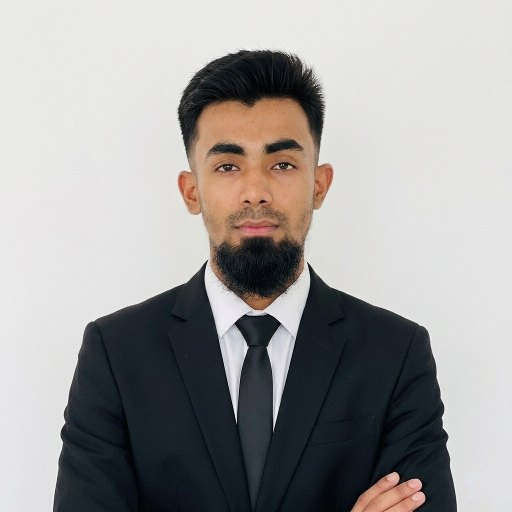
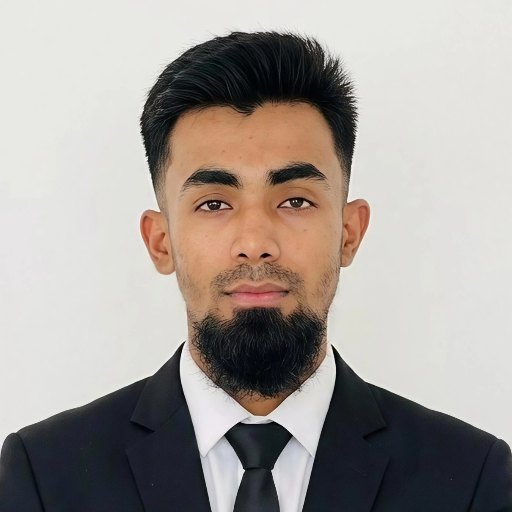
some add a single join button

diff --git a/NHS_Frontend/src/pages/home/JoinFinder.jsx b/NHS_Frontend/src/pages/home/JoinFinder.jsx
@@ -1,0 +1,102 @@
+import { useRef, useState } from 'react';
+import { useNavigate } from 'react-router-dom';
+import { findByRoll } from '../../api/public.js';
+import { Icon } from '../../components/Icon.jsx';
+import { studentId } from '../../lib/format.js';
+import { FOUNDED, GROUPS, ROLL_CHECK_FROM, THIS_YEAR } from '../../lib/school.js';
+
+const YEARS = Array.from({ length: THIS_YEAR - FOUNDED + 1 }, (_, i) => THIS_YEAR - i);
+
+/**
+ * One "Join" for every batch. Pick the batch first; then
+ *   up to lastJoin (not in the school's sheets): the join form, checked by an admin;
+ *   ROLL_CHECK_FROM on (sheets have rolls only): group + SSC roll finds the record;
+ *   in between (sheets have names): the batch page, filtered to that group, to find yourself.
+ */
+export default function JoinFinder({ firstRecord }) {
+  const navigate = useNavigate();
+  const ref = useRef(null);
+  const lastJoin = (firstRecord ?? 2006) - 1;
+  const [f, setF] = useState({ batch: '', group: '', roll: '' });
+  const [busy, setBusy] = useState(false);
+  const [error, setError] = useState(null);
+
+  const year = YEARS.includes(+f.batch) ? +f.batch : null;
+  const kind = !year ? null : year <= lastJoin ? 'form' : year >= ROLL_CHECK_FROM ? 'roll' : 'list';
+  const set = k => e => {
+    const v = k === 'roll' || k === 'batch' ? e.target.value.replace(/\D/g, '') : e.target.value;
+    setError(null);
+    setF(s => (k === 'batch' ? { batch: v, group: '', roll: '' } : { ...s, [k]: v }));
+  };
+
+  // a department button: straight to the batch page for names, else on to the SSC roll
+  const pickGroup = g => (kind === 'list' ? navigate(`/directory?batch=${year}&group=${encodeURIComponent(g)}`) : setF(s => ({ ...s, group: g })));
+
+  const submit = async e => {
+    e.preventDefault();
+    if (kind === 'form') return navigate('/join', { state: { batch: year } });
+    setBusy(true); setError(null);
+    try {
+      const { id } = await findByRoll(year, f.group, f.roll);
+      navigate(`/alumni/${studentId(id)}/update`, { state: { roll: f.roll } });
+    } catch (err) {
+      setError(err.message);
+      setBusy(false);
+    }
+  };
+
+  return (
+    <section className="section">
+      <div className="wrap">
+        <div className="card join-band">
+          <span className="pin-icon"><Icon name="users" /></span>
+          <div>
+            <h2>Join the network</h2>
+            <p className="text-2">SSC {FOUNDED}–{THIS_YEAR}: find your profile, or add yourself.</p>
+          </div>
+          <button type="button" className="btn btn-primary" onClick={() => ref.current.showModal()}>Join</button>
+        </div>
+      </div>
+      <dialog ref={ref} className="pin-dialog roll-dialog" aria-labelledby="join-title">
+        <form onSubmit={submit}>
+          <h2 id="join-title">Join the network</h2>
+          <label className="field">
+            <span className="field-label">Batch (SSC year)</span>
+            <input className="input num" list="join-years" required inputMode="numeric" maxLength={4} autoComplete="off"
+              placeholder="Type or choose, e.g. 2014" value={f.batch} onChange={set('batch')} />
+            <datalist id="join-years">{YEARS.map(y => <option key={y} value={y} />)}</datalist>
+          </label>
+          {f.batch.length === 4 && !year && <p className="err">Choose a year from {FOUNDED} to {THIS_YEAR}.</p>}
+
+          {(kind === 'roll' || kind === 'list') && (
+            <fieldset className="field join-groups">
+              <legend className="field-label">Department</legend>
+              <div>
+                {GROUPS.map(g => (
+                  <button key={g.name} type="button" className="btn btn-secondary" aria-pressed={f.group === g.name} onClick={() => pickGroup(g.name)}>
+                    <i className={`dot ${g.cls}`} aria-hidden="true" />{g.name}
+                  </button>
+                ))}
+              </div>
+            </fieldset>
+          )}
+
+          {kind === 'roll' && f.group && (
+            <label className="field">
+              <span className="field-label">SSC roll</span>
+              <input className="input num" required inputMode="numeric" pattern="[0-9]{4,10}" maxLength={10} autoComplete="off"
+                value={f.roll} onChange={set('roll')} />
+            </label>
+          )}
+
+          {error && <p className="err" role="alert">{error}</p>}
+          {kind === 'form' && <p className="text-2">Batches before {lastJoin + 1} aren’t in the school’s records: fill in the form and an admin checks it.</p>}
+          {(kind === 'form' || (kind === 'roll' && f.group)) && (
+            <button className="btn btn-primary btn-block" type="submit" disabled={busy}>{busy ? 'Checking…' : 'Continue'}</button>
+          )}
+          <button type="button" className="btn btn-ghost btn-sm" onClick={() => ref.current.close()}>Cancel</button>
+        </form>
+      </dialog>
+    </section>
+  );
+}

diff --git a/NHS_Frontend/src/index.css b/NHS_Frontend/src/index.css
@@ -600,23 +600,22 @@ button { font: inherit; color: inherit; }
 }
 /* PIN box: bottom sheet on phones, centred card on desktop */
 .pin-dialog { width: 100%; max-width: 100%; margin: auto 0 0; padding: 0; border: 0; border-radius: var(--r-lg) var(--r-lg) 0 0; background: var(--surface); color: var(--text); box-shadow: var(--shadow-lg); }
-/* two halves side by side at every width; on phones: no icon, smaller text, full-width buttons */
-.roll-band { display: grid; grid-template-columns: 1fr 1fr; border-top: 4px solid var(--accent); overflow: hidden;
-  margin-inline: calc(-1 * var(--gutter)); border-radius: 0; border-inline: 0; } /* phones: edge to edge */
-.roll-part { display: grid; grid-template-rows: 1fr auto; gap: var(--s-3); padding: var(--s-4); }
-.roll-part + .roll-part { border-left: 1px solid var(--border); }
-.roll-band .pin-icon { display: none; justify-self: start; }
-.roll-band h2 { font: 600 var(--t-base)/1.3 var(--f-sans); }
-.roll-band p { font-size: var(--t-sm); }
-.roll-band .btn { width: 100%; }
+/* home page Join: one band, the button on the right */
+.join-band { display: grid; grid-template-columns: minmax(0, 1fr) auto; align-items: center; gap: var(--s-3); padding: var(--s-4); border-top: 4px solid var(--accent); }
+.join-band .pin-icon { display: none; }
+.join-band h2 { font: 600 var(--t-base)/1.3 var(--f-sans); }
+.join-band p { font-size: var(--t-sm); }
 @media (min-width: 720px) {
-  .roll-band { margin-inline: 0; border-radius: var(--r-md); border-inline: 1px solid var(--border); }
-  .roll-part { grid-template-rows: auto 1fr auto; gap: var(--s-4); padding: var(--s-6) var(--s-8); }
-  .roll-band .pin-icon { display: grid; }
-  .roll-band h2 { font-size: var(--t-xl); }
-  .roll-band p { font-size: inherit; }
-  .roll-band .btn { width: auto; justify-self: start; }
+  .join-band { grid-template-columns: auto minmax(0, 1fr) auto; gap: var(--s-4); padding: var(--s-6) var(--s-8); }
+  .join-band .pin-icon { display: grid; }
+  .join-band h2 { font-size: var(--t-xl); }
+  .join-band p { font-size: inherit; }
 }
+/* Join box: the three departments as buttons */
+.join-groups { border: 0; padding: 0; margin: 0; }
+.join-groups > div { display: grid; gap: var(--s-2); }
+.join-groups .btn { justify-content: flex-start; gap: var(--s-2); }
+.join-groups .btn[aria-pressed="true"] { border-color: var(--brand); background: var(--brand-soft); box-shadow: 0 0 0 1px var(--brand); }
 .roll-dialog .field { text-align: left; }
 .pin-dialog::backdrop { background: rgb(0 0 0 / .45); }
 .pin-dialog form { display: grid; gap: var(--s-3); padding: var(--s-6) var(--s-5) calc(var(--s-5) + var(--safe-b)); text-align: center; }
@@ -1020,8 +1019,6 @@ button { font: inherit; color: inherit; }
 @media (min-width: 960px) { .hero .wrap { padding-block: 48px 40px; gap: var(--s-4); } }
 
 /* roll band, footer, sheets */
-.roll-part { gap: var(--s-2); padding: var(--s-3); }
-@media (min-width: 720px) { .roll-part { gap: var(--s-3); padding: var(--s-4) var(--s-6); } .roll-band h2 { font-size: var(--t-lg); } }
 .pin-icon { width: 40px; height: 40px; }
 .pin-icon .ic { width: 20px; height: 20px; }
 .footer { margin-top: var(--s-6); }

diff --git a/NHS_Frontend/src/pages/profile-form/UpdateProfile.jsx b/NHS_Frontend/src/pages/profile-form/UpdateProfile.jsx
@@ -31,7 +31,7 @@ export default function UpdateProfile() {
   const id = currentId(+useParams().id) || null;
   const { data: d, loading, error } = useAsync(() => (id ? getAlumnusRaw(id) : Promise.resolve(null)), [id]);
   // The SSC roll, once it matched. It rides in the page's history state, so switching to the roll's own profile keeps it.
-  const { roll, moved } = useLocation().state || {};
+  const { roll, moved, batch } = useLocation().state || {}; // batch: picked in the home page's Join box
   const [unlocked, setUnlocked] = useState(null); // { id, pin, ...private fields } after the email PIN
   useTitle(id ? 'Update my profile' : 'Join the network');
   if (id && loading) return <div className="wrap profile-skel" aria-busy="true"><div className="skeleton skel-block" /></div>;
@@ -47,5 +47,6 @@ export default function UpdateProfile() {
   if (person?.joined && !u) return <EditGate id={id} person={person} onUnlock={setUnlocked} />;
   const start = initial(d, u);
   start.form.roll = roll ? +roll : null;
+  if (!id && batch) start.form.batch = String(batch);
   return <ProfileForm key={id} id={id} person={person} start={start} moved={moved} pin={u?.pin} />;
 }

diff --git a/NHS_Frontend/src/pages/home/Home.jsx b/NHS_Frontend/src/pages/home/Home.jsx
@@ -9,7 +9,7 @@ import Comments from '../events/Comments.jsx';
 import EventList from '../events/EventList.jsx';
 import HeroSearch from './HeroSearch.jsx';
 import Marquee from './Marquee.jsx';
-import RollFinder from './RollFinder.jsx';
+import JoinFinder from './JoinFinder.jsx';
 
 export default function Home() {
   useTitle(null);
@@ -37,7 +37,7 @@ export default function Home() {
         </div>
       </section>
 
-      <RollFinder firstRecord={s?.firstRecordBatch} />
+      <JoinFinder firstRecord={s?.firstRecordBatch} />
 
       <section className="section">
         <div className="wrap">
